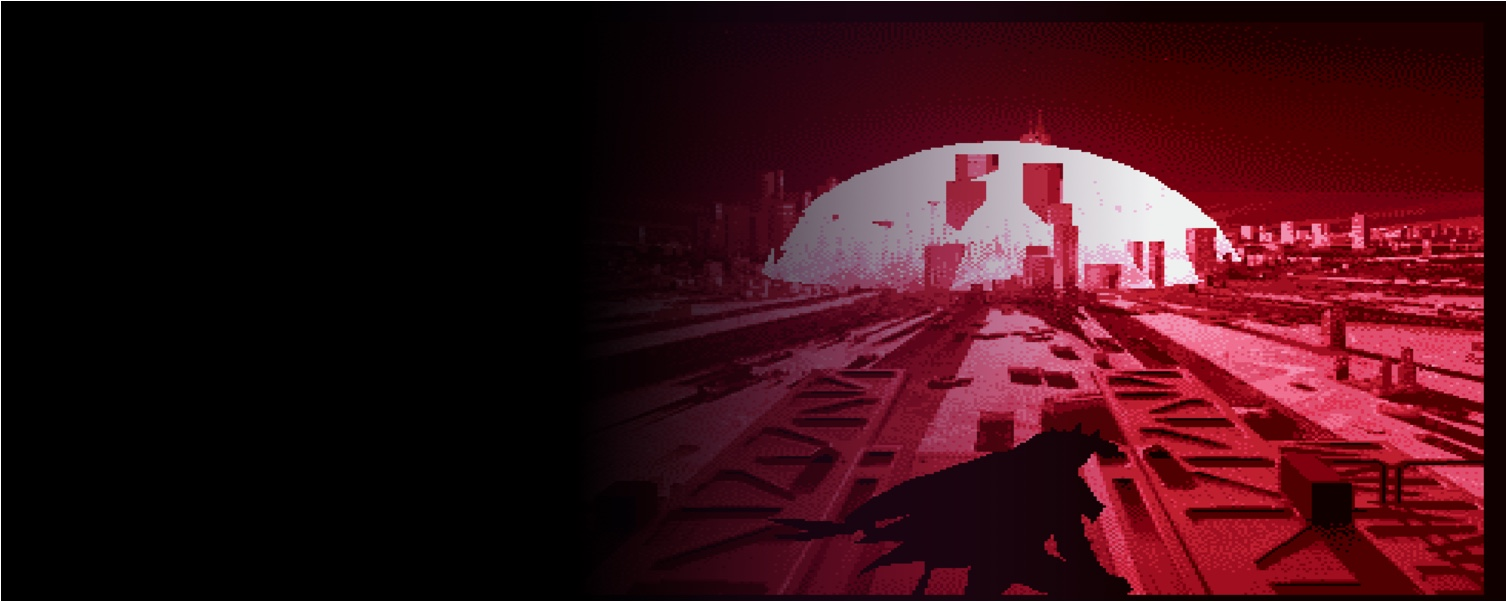
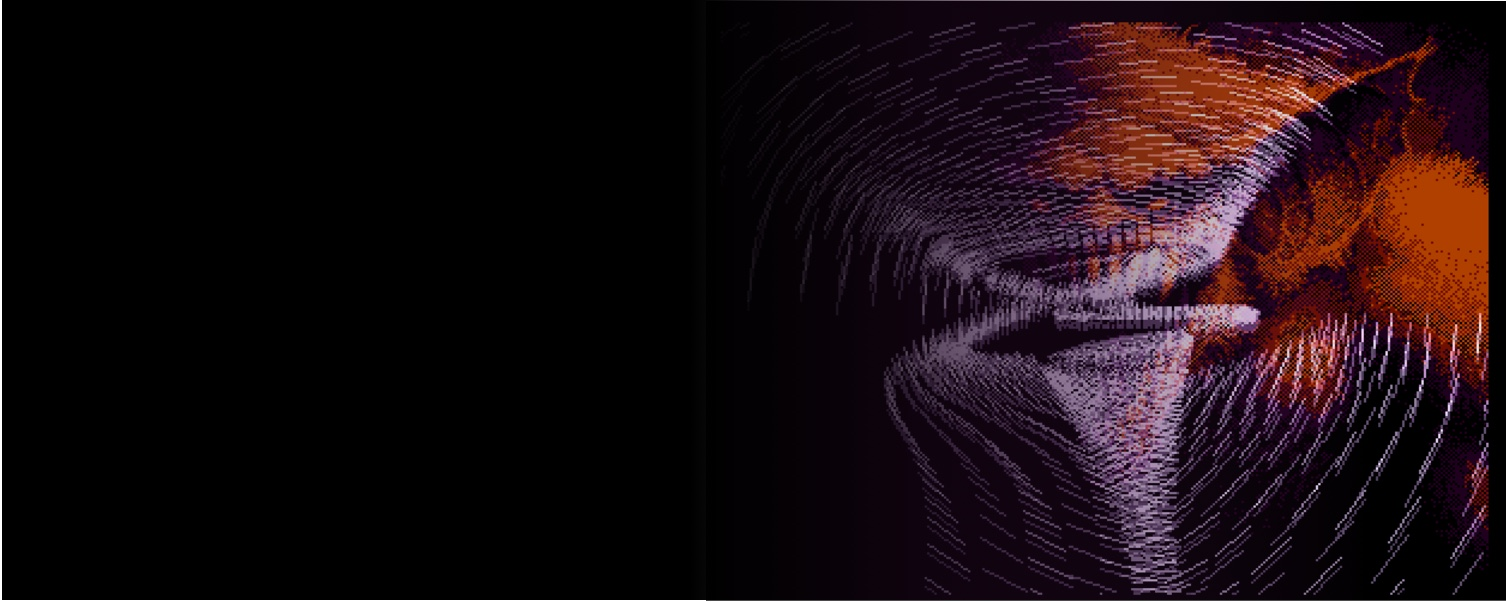
Uploading

diff --git a/src/routes/+page.svelte b/src/routes/+page.svelte
@@ -1,9 +1,9 @@
 <script lang="ts">
 	import '../app.css';
 	import { onMount } from 'svelte';
-	import FaRegClock from 'svelte-icons/fa/FaRegClock.svelte';
-	import Toolbar from '$lib/Toolbar.svelte';
-	import Carousel from '$lib/Carousel.svelte';
+	import ButtonLink from '$lib/ButtonLink.svelte';
+	import MainPageLink from '$lib/HeroLink.svelte';
+	import GoDatabase from 'svelte-icons/go/GoDatabase.svelte';
 	import Carousel2 from '$lib/Carousel2.svelte';
 	import '@splidejs/svelte-splide/css';
 
@@ -13,31 +13,43 @@
 </script>
 
 <body class="h-screen bg-black text-white">
-	<!--<Toolbar  bgcolor={tbcolor1} />-->
-	<div class="">
-		<img class="w-full" src="defender.jpg" />
-		<div>
-			<div class="absolute top-10 left-10">
-				<div class="font-sofia-extra text-8xl">Defender of the Crown</div>
-				<div class="font-sofia-semi text-2xl pb-10">Cinemaware (1986)</div>
-				<div class="flex font-josefin text-lg w-1/3">
-					Defender of the Crown is a strategy computer game designed by Kellyn Beck. It was
-					Cinemaware's first game, and was originally released for the Commodore Amiga in 1986,
-					setting a new standard for graphic quality in home computer games.
+	<div class="bg-cover bg-transparent">
+		<title> Welcome to vAmiga</title>
+
+		<div class="flex flex-col h-screen">
+			<div
+				class="absolute flex flex-grow bg-splashscreen bg-cover h-screen w-screen brightness-[0.15]"
+			/>
+			<div
+				class="relative bg-transparent flex flex-grow items-center justify-center border-none align-middle border-4 border-blue-500"
+			>
+				<div class="">
+					<div class="flex justify-center text-5xl font-sofia-extra p-1 text-gray-100">vAmiga Online</div>
+					<div class="flex justify-center text-3xl font-sofia-semi text-gray-400">
+						Welcome to the world of friendly emulation
+					</div>
+					<div class="flex justify-center p-8">
+						<ButtonLink
+							href="/projects"
+							color="var(--accent-text)"
+							style="box-shadow: 0 3px 10px rgb(0 0 0 / 0.2);"
+							title="Power On"
+							>Power On
+						</ButtonLink>
+					</div>
 				</div>
 			</div>
+			<div class="relative flex justify-center border-none align-middle bg-gray-500/50 border-4 border-red-500">
+				<MainPageLink href="#showcases">
+					<div slot="icon">
+						<GoDatabase />
+					</div>
+					<div slot="description">Showcases</div>
+				</MainPageLink>
+			</div>
 		</div>
-		<div class="pb-2" />
-
-		<div class="font-sofia-semi text-2xl p-2">
-			Demo Scene
+		<div id ="showcases">
+			<Carousel2 />
 		</div>
-		<Carousel2 />
-
-		<div class="font-sofia-semi text-2xl p-2">
-			Vannila Setups
-		</div>
-		<Carousel />
-
 	</div>
 </body>

diff --git a/src/routes/showcases/+page.svelte b/src/routes/showcases/+page.svelte
@@ -1,0 +1,43 @@
+<script lang="ts">
+	import '../../app.css';
+	import { onMount } from 'svelte';
+	import FaRegClock from 'svelte-icons/fa/FaRegClock.svelte';
+	import Toolbar from '$lib/Toolbar.svelte';
+	import Carousel from '$lib/Carousel.svelte';
+	import Carousel2 from '$lib/Carousel2.svelte';
+	import '@splidejs/svelte-splide/css';
+
+	onMount(() => {
+		console.log('onMount');
+	});
+</script>
+
+<body class="h-screen bg-black text-white">
+	<!--<Toolbar  bgcolor={tbcolor1} />-->
+	<div class="">
+		<img class="w-full" src="defender.jpg" />
+		<div>
+			<div class="absolute top-10 left-10">
+				<div class="font-sofia-extra text-8xl">Defender of the Crown</div>
+				<div class="font-sofia-semi text-2xl pb-10">Cinemaware (1986)</div>
+				<div class="flex font-josefin text-lg w-1/3">
+					Defender of the Crown is a strategy computer game designed by Kellyn Beck. It was
+					Cinemaware's first game, and was originally released for the Commodore Amiga in 1986,
+					setting a new standard for graphic quality in home computer games.
+				</div>
+			</div>
+		</div>
+		<div class="pb-2" />
+
+		<div class="font-sofia-semi text-2xl p-2">
+			Demo Scene
+		</div>
+		<Carousel2 />
+
+		<div class="font-sofia-semi text-2xl p-2">
+			Vannila Setups
+		</div>
+		<Carousel />
+
+	</div>
+</body>

diff --git a/src/lib/CarouselItem.svelte b/src/lib/CarouselItem.svelte
@@ -1,9 +1,24 @@
 <script lang="ts">
-	export let title = "???"
-	export let src = ""
-    export let alt = "Item"
+	export let title = '???';
+	export let src = '';
+	export let alt = 'Item';
 </script>
 
-<div class="bg-black p-2">
-<img class="object-fill rounded-md" {src} {alt} />
+<div class="border-none border-4 rounded-lg border-gray-600">
+	<div class="bg-black">
+		<img class="object-fill" {src} {alt} />
+		<div>
+			<div class="absolute top-10 left-10">
+				<div class="font-sofia-extra text-7xl">Defender of the Crown</div>
+				<div class="font-sofia-semi text-2xl pb-10">Cinemaware (1986)</div>
+				<div class="flex font-josefin text-lg w-1/3 pb-10">
+					Defender of the Crown is a strategy computer game designed by Kellyn Beck. It was
+					Cinemaware's first game, and was originally released for the Commodore Amiga in 1986,
+					setting a new standard for graphic quality in home computer games.
+				</div>
+				<button class="bg-blue-800 hover:bg-blue-700 text-white font-bold py-2 px-8 rounded"
+					>Play</button>
+			</div>
+		</div>
+	</div>
 </div>

diff --git a/src/lib/Carousel2.svelte b/src/lib/Carousel2.svelte
@@ -3,29 +3,23 @@
 	import CarouselItem from './CarouselItem.svelte';
 
 	const options = {
-		type: 'slide',
-		perPage: 5,
+		type: 'fade',
+		perPage: 1,
 		perMove: 1,
 		pagination: false,
 		gap: '1rem',
 		}
 	const images = [
-        /*
-    {
-			url: 'small-defender.jpg',
+		{
+			url: 'bg_defender.jpg',
 			description: 'Defender of the Crown'
 		},
-        */
 		{
-			url: 'small-batman.jpg',
+			url: 'bg_batman.jpg',
 			description: 'Batman Rises'
 		},
 		{
-			url: 'small-eon.jpg',
-			description: 'Eon'
-		},
-		{
-			url: 'small-rinkadink.jpg',
+			url: 'bg_rinkadink.jpg',
 			description: 'Rink a Dink'
 		},
 	];

diff --git a/src/lib/ButtonLink.svelte b/src/lib/ButtonLink.svelte
@@ -1,0 +1,14 @@
+<script>
+	export let disabled = false
+    export let href = ''
+	export let color = 'var(--accent-text)'
+	export let style = ''
+	export let bg = 'var(--accent)'	
+	export let hasIcon = false
+	export let title = ''
+	export let cssVar = 'unset'
+</script>
+
+<button class="bg-blue-800 hover:bg-blue-700 text-white font-bold py-2 px-8 rounded">
+    <slot />
+</button>

diff --git a/src/lib/HeroLink.svelte b/src/lib/HeroLink.svelte
@@ -1,0 +1,12 @@
+<script lang="ts">
+    export let href:string
+</script>
+
+<a class="flex-col" {href}>
+    <div class="flex h-16 mt-4 justify-center text-gray-300">
+        <slot name="icon" />
+    </div>
+    <div class="flex mb-4 text-center text-xl text-gray-300">
+        <slot name="description"/>
+    </div>
+</a>
